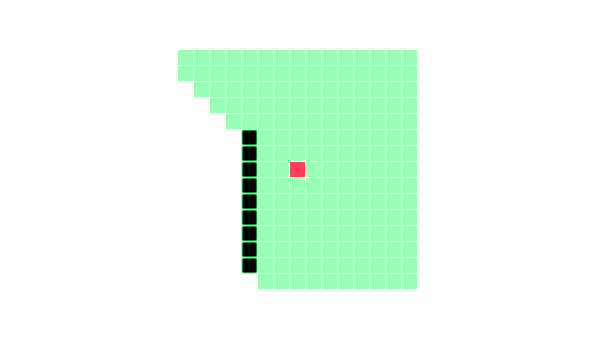
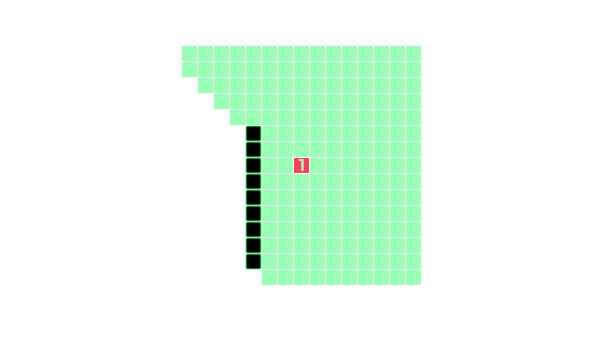
orange colour for second agent

Changed region(s): [[0.27, 0.1183, 0.72, 0.858]]

diff --git a/public/js/simulation-jquery.js b/public/js/simulation-jquery.js
@@ -28,8 +28,10 @@ const LIGHT_TEAM_COLOR = "#ffff7f";
 const CELL_COLOR = "black";
 const EXPLORED_COLOR = "white";
 const WALL_COLOR = "black";
-const TEMP_COLOR = "#33ff70";
-const LIGHT_TEMP_COLOR = "#99ffb7";
+const TEMP_COLOR_1 = "#33ff70";
+const LIGHT_TEMP_COLOR_1 = "#99ffb7";
+const TEMP_COLOR_2 = "#ff8000";
+const LIGHT_TEMP_COLOR_2 = "#ffbf7f";
 const VICTIM_COLOR = "red";
 const HAZARD_COLOR = "yellow";
 
@@ -41,7 +43,6 @@ var agent2Explored = new Set();
 var tempAgent1Explored = new Set();
 var tempAgent2Explored = new Set();
 var humanExplored = new Set();
-// var data = { movement: [], human: [], agentData: { agent1: [], agent2: [] }, decisions: [], obstacles: [], uuid: null };
 var uuid;
 var data = [{ movement: [], human: [], agent1: [], agent2: [] },
 { movement: [], human: [], agent1: [], agent2: [] }];
@@ -206,38 +207,13 @@ function terminate() {
             alert(err);
         }
     });
-
-    /* requests = [{ url: "/simulation/details", data: { uuid: data[half].uuid, obstacles: data[half].obstacles, decisions: data[half].decisions }},
-    { url: "/simulation/movement", data: { uuid: data[half].uuid, movement: data[half].movement } },
-    { url: "/simulation/human", data: data[half].human },
-    { url: "/simulation/agent1", data: data[half].agent1 },
-    { url: "/simulation/agent2", data: data[half].agent2 }] */
-    // console.log(requests);
-    // doAjax();
-
-    // window.location.href = "/survey-1";
-}
-
-function doAjax() {
-    // alert(requests[currentReq]);
-    if (currentReq < requests.length) {
-        $.ajax({
-            type: "POST",
-            dataType: "json",
-            url: requests[currentReq].url,
-            data: requests[currentReq].data,
-            complete: (jqXHR, status) => {
-                console.log(status);
-                ++currentReq;
-                doAjax();
-            }
-        });
-    }
 }
 
 function showExploredInfo() {
-    $humanImage.attr("src", $map.getCanvasImage());
-    $botImage.attr("src", $map.getCanvasImage());
+    if (agentNum == 1) {
+        $humanImage.attr("src", $map.getCanvasImage());
+        $botImage.attr("src", $map.getCanvasImage());
+    }
 
     drawMarkers(obstacles);
 
@@ -247,21 +223,17 @@ function showExploredInfo() {
     $popupModal.css('visibility', 'visible');
     $popupModal.css('opacity', '1');
     $minimapImage.attr("src", $map.getCanvasImage());
-    $agentText.html(`Agent ${agentNum} explored area (green)
-    <i class="fas fa-info-circle tooltip">
-        <span class="tooltiptext">If there is no area highlighted in green, then the agent did not explore any new area.</span>
-    </i>`);
 
     $log.empty();
 
     if (agentNum == 1) {
+        $agentText.toggleClass("changed", false);
+        $agentText.css("color", "#99ffb7");
+        $agentText.html(`Agent ${agentNum} explored area (green)
+        <i class="fas fa-info-circle tooltip">
+            <span class="tooltiptext">If there is no area highlighted in green, then the agent did not explore any new area.</span>
+        </i>`);
         if (log.agent1[intervalCount - 1] != null) {
-            /* let chosenOption = (log.agent1[intervalCount - 1].trusted) ? "Integrated" : "Discarded";
-            if (chosenOption == "Integrated") {
-                $log.append(`<p style='background-color: #99ffb7;'>${intervalCount} - ${chosenOption}</p>`);
-            } else {
-                $log.append(`<p style='background-color: #ff9eae;'>${intervalCount} - ${chosenOption}</p>`);
-            } */
             log.agent1.forEach((data, i) => {
                 if (data.trusted) {
                     $log.append(`<p style='background-color: #99ffb7;'>${i + 1} - Integrated</p>`);
@@ -271,14 +243,12 @@ function showExploredInfo() {
             });
         }
     } else if (agentNum == 2) {
-        /* if (log.agent2[intervalCount - 1] != null) {
-            let chosenOption = (log.agent2[intervalCount - 1].trusted) ? "Integrated" : "Discarded";
-            if (chosenOption == "Integrated") {
-                $log.append(`<p style='background-color: #99ffb7;'>${intervalCount} - ${chosenOption}</p>`);
-            } else {
-                $log.append(`<p style='background-color: #ff9eae;'>${intervalCount} - ${chosenOption}</p>`);
-            }
-        } */
+        $agentText.toggleClass("changed", true);
+        $agentText.css("color", "#ffbf7f");
+        $agentText.html(`Agent ${agentNum} explored area (orange)
+        <i class="fas fa-info-circle tooltip">
+            <span class="tooltiptext">If there is no area highlighted in orange, then the agent did not explore any new area.</span>
+        </i>`);
         log.agent2.forEach((data, i) => {
             if (data.trusted) {
                 $log.append(`<p style='background-color: #99ffb7;'>${i + 1} - Integrated</p>`);
@@ -326,15 +296,15 @@ function hideExploredInfo() {
 
     $map.clearCanvas();
     humanExplored.forEach((key, item, set) => {
-        draw(grid[item]);
+        draw(grid[item], 0);
     });
 
     agent1Explored.forEach(function(key, item, set) {
-        draw(grid[item]);
+        draw(grid[item], 1);
     });
 
     agent2Explored.forEach(function(key, item, set) {
-        draw(grid[item]);
+        draw(grid[item], 2);
     });
 
     tempAgent1Explored.clear();
@@ -429,6 +399,7 @@ function createMap(currentPath, cb) {
     }).fail(() => {
         alert("An error has occured.");
     }).done(() => {
+        // 177414
         let tempLoc = agent1Traversal[agent1Index++];
         human = { id: "human", loc: getRandomLoc(grid), color: HUMAN_COLOR, dir: 1 };
         agent1 = { id: "agent1", loc: tempLoc.y + tempLoc.x*columns, color: AGENT_COLOR, dir: 1, step: 1, stepsCovered: 0, minSteps: 10, maxSteps: 20 };
@@ -484,8 +455,13 @@ function drawMarkers(members) {
 }
 
 // draw a square given a cell
-function draw(cell) {
-    let lightColor = LIGHT_TEMP_COLOR, darkColor = TEMP_COLOR;
+// who: 0 - human, 1 - agent1, 2 - agent2
+function draw(cell, who) {
+    let lightColor = LIGHT_TEMP_COLOR_1, darkColor = TEMP_COLOR_1;
+    if (who == 2) {
+        lightColor = LIGHT_TEMP_COLOR_2;
+        darkColor = TEMP_COLOR_2;
+    }
 
     if (cell.isHumanExplored && !cell.isAgentExplored) {
         lightColor = LIGHT_HUMAN_COLOR;
@@ -533,14 +509,25 @@ function spawn(members, size) {
                 width: (boxWidth - 1)*size, height: (boxHeight - 1)*size
             });
 
-            $map.drawText({
-                fromCenter: true,
-                fillStyle: LIGHT_TEMP_COLOR,
-                x: grid[member.loc].x*boxWidth + boxWidth/2, y: grid[member.loc].y*boxHeight + boxHeight/2,
-                fontSize: boxWidth,
-                fontFamily: 'Montserrat, sans-serif',
-                text: member.id == 'agent1' ? '1' : '2'
-            });
+            if (member.id == "agent1") {
+                $map.drawText({
+                    fromCenter: true,
+                    fillStyle: LIGHT_TEMP_COLOR_1,
+                    x: grid[member.loc].x*boxWidth + boxWidth/2, y: grid[member.loc].y*boxHeight + boxHeight/2,
+                    fontSize: boxWidth,
+                    fontFamily: 'Montserrat, sans-serif',
+                    text: member.id == 'agent1' ? '1' : '2'
+                });
+            } else {
+                $map.drawText({
+                    fromCenter: true,
+                    fillStyle: LIGHT_TEMP_COLOR_2,
+                    x: grid[member.loc].x*boxWidth + boxWidth/2, y: grid[member.loc].y*boxHeight + boxHeight/2,
+                    fontSize: boxWidth,
+                    fontFamily: 'Montserrat, sans-serif',
+                    text: member.id == 'agent1' ? '1' : '2'
+                });
+            }
         } else if (member.id == "victim" && member.isFound) {
             $map.drawEllipse({
                 fromCenter: true,
@@ -570,7 +557,7 @@ function refreshMap() {
         grid[item].isHumanExplored = true;
         humanExplored.add(item);
 
-        draw(grid[item]);
+        draw(grid[item], 0);
 
         for (let i = 0; i < obstacles.length; i++) {
             if (item == obstacles[i].loc) {
@@ -580,12 +567,13 @@ function refreshMap() {
     });
 
     // bot surroundings
+    // agent 1
     let agentFOV = findLineOfSight(agent1);
     let agentFOVSet = new Set(agentFOV);    // convert array to set
 
     agentFOVSet.forEach(item => {
         tempAgent1Explored.add(item);
-        draw(grid[item]);
+        draw(grid[item], 1);
 
         for (let i = 0; i < obstacles.length; i++) {
             if (item == obstacles[i].loc) {
@@ -594,12 +582,13 @@ function refreshMap() {
         }
     });
     
+    // agent 2
     agentFOV = findLineOfSight(agent2);
     agentFOVSet = new Set(agentFOV);    // convert array to set
 
     agentFOVSet.forEach(item => {
         tempAgent2Explored.add(item);
-        draw(grid[item]);
+        draw(grid[item], 2);
 
         for (let i = 0; i < obstacles.length; i++) {
             if (item == obstacles[i].loc) {

diff --git a/public/css/simulation.css b/public/css/simulation.css
@@ -250,8 +250,16 @@ nav {
     background: white;
 }
 
-.headings-container p:nth-child(2)::after {
+/* .headings-container p:nth-child(2)::after {
     background: #99ffb7;
+} */
+
+.headings-container .agent-text::after {
+    background: #99ffb7;
+}
+
+.headings-container .agent-text.changed::after {
+    background: #ffbf7f;
 }
 
 .headings-container p:nth-child(3)::after {

diff --git a/README.md b/README.md
@@ -6,23 +6,27 @@ This project is a study conducted by ARL STRONG UMass Lowell.
 
 https://arlstrong-uml.herokuapp.com/
 
-### Background
+## Background
 This project pertains to team formation in groups of humans and robots trying to accomplish a common objective, such as a search and rescue operation. Teams succeed because of the network of relationships they possess, and the emergent behaviors this network facilitates. These emergent behaviors arise due to three constructs: (a) multiple agents in the team capable of taking actions, (b) interactions between the agents, and (c\) emergence of global-scale patterns due to the interactions. The overall research strategy and objective tackles each of these constructs as separate tasks in the context of a search and rescue mission. Search and rescue operations are often severely resource constrained in terms of time, energy, and information organization. Operating in such resource-constrained scenarios can impact the ability of human-agent teams to tackle complex problems, resulting in sub-optimal outputs.
 
-### Objective
+## Objective
 This study is largely exploratory. We will vary study parameters such as the goal assigned to the human-robot team, the complexity of the search and rescue environment, and the resources available to the team (such as level of map detail). We will observe and measure the resulting trust between humans and robots in the team, as well as the level of team performance and cohesion.
 
-###  Project Details
+##  Project Details
 The website uses Node JS, Express, and MongoDB.
 
-#### Instructions on how to use the website
+## Instructions on how to use the website
 ![human on the map](/public/img/blue.png)
 
 The blue colored square represents a human on the map. The light blue colored area shaded around the human is the area of the map visible to (human's field of view)/explored by the human.
 
-![explored area on the map not integrated](/public/img/green.png)
+![explored area on the map not integrated - agent 1](/public/img/green.png)
 
-The red colored square represents an agent on the map that moves autonomously. The green colored area shaded around the agent is the area of the map visible to (agent's field of view)/explored by the agent in the current interval.
+The red colored square marked by "1" represents the first agent on the map that moves autonomously. The green colored area shaded around the agent is the area of the map visible to (agent's field of view)/explored by the agent in the current interval.
+
+![explored area on the map not integrated - agent 2](/public/img/orange.png)
+
+The red colored square marked by "2" represents the second agent on the map that moves autonomously. The orange colored area shaded around the agent is the area of the map visible to (agent's field of view)/explored by the agent in the current interval.
 
 ![explored area on the map integrated](/public/img/red.png)
 
@@ -32,10 +36,6 @@ The light red colored area shaded on the map is the area of the map that has bee
 
 The yellow colored area shaded on the map is the area of the map that has been explored by both the agent and the human in the past intervals and has been integrated by the human.
 
-![trust confirmation screen](/public/img/pop-up.png)
-
-Use the arrow keys or awsd (or hjkl if you're a vim power user) to control the human. After every 30 seconds, you will be shown the images of the current state of the whole map, the human explored area, and the agent explored area. You will be prompted to either integrate or discard both agents' explored regions (Agent 1 and Agent 2). If you choose to integrate, the agent explored region (shaded green) will turn red. If you choose to discard this area, the green colored region will disappear and is considered unexplored.
-
 ![Victim marker](/public/img/victim-marker-front.png)
 
 This marker on the minimap in the trust confirmatin pop-up means that a victim has been found on the map.
@@ -43,3 +43,7 @@ This marker on the minimap in the trust confirmatin pop-up means that a victim h
 ![Hazard marker](/public/img/hazard-marker-front.png)
 
 This marker on the minimap in the trust confirmation pop-up means that a hazard has been found on the map.
+
+![trust confirmation screen](/public/img/pop-up.png)
+
+Use the arrow keys or awsd (or hjkl if you're a vim power user) to control the human. After every 30 seconds, you will be shown the images of the current state of the whole map, the human explored area, and the agent explored area. You will be prompted to either integrate or discard both agents' explored regions (Agent 1 and Agent 2). If you choose to integrate, the agent explored region (shaded green) will turn red. If you choose to discard this area, the green colored region will disappear and is considered unexplored.
